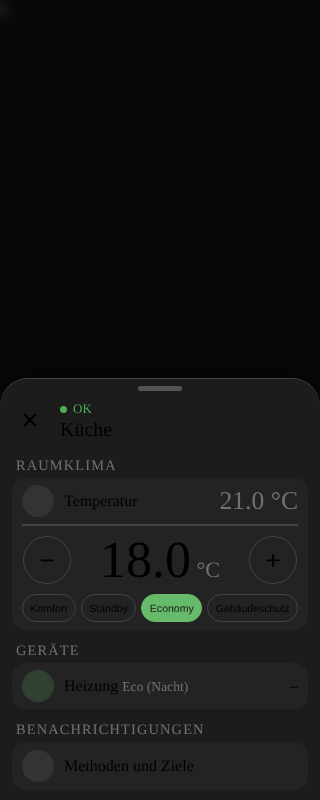
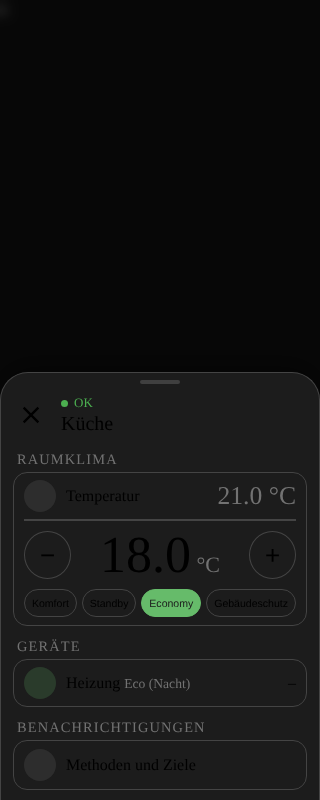
Heizplan mit echtem Tagesverlauf, Popup als Bottom-Sheet wie Home Assistant (1.32.0) (#253)
* Heizplan mit echtem Tagesverlauf, Popup als Bottom-Sheet wie Home Assistant (1.32.0)

Claude-Session: https://claude.ai/code/session_016N3izbgCGyVMuvVCQ46Wp9

* CLAUDE.md: Formulierung Lektion 176

Claude-Session: https://claude.ai/code/session_016N3izbgCGyVMuvVCQ46Wp9

---------

diff --git a/custom_components/ha_smart_ventilation/www/smart-climate-card.js b/custom_components/ha_smart_ventilation/www/smart-climate-card.js
@@ -181,35 +181,77 @@ const SC_PLAN_COLOR = {
   comfort: SC_HEATING_COLOR.comfort,
   standby: SC_HEATING_COLOR.standby,
   night: SC_HEATING_COLOR.night,
+  building_protection: SC_HEATING_COLOR.building_protection,
 };
-const PLAN_LABEL = { comfort: "Komfort", standby: "Standby", night: "Eco (Nacht)" };
+const PLAN_LABEL = {
+  comfort: "Komfort",
+  standby: "Standby",
+  night: "Eco (Nacht)",
+  building_protection: "Gebäudeschutz",
+};
 
-function planHtml(plan, now, compact) {
-  if (!Array.isArray(plan) || !plan.length) return "";
-  const segs = [];
-  for (const entry of plan) {
+// Liste [[Startminute, Modus], ...] bereinigen und sortieren.
+function planEntries(list) {
+  const out = [];
+  if (!Array.isArray(list)) return out;
+  for (const entry of list) {
     if (!Array.isArray(entry)) continue;
     const start = Number(entry[0]);
     if (!Number.isFinite(start) || start < 0 || start >= 1440) continue;
-    segs.push([start, typeof entry[1] === "string" ? entry[1] : ""]);
+    out.push([start, typeof entry[1] === "string" ? entry[1] : ""]);
   }
-  if (!segs.length) return "";
-  segs.sort((x, y) => x[0] - y[0]);
-  if (segs[0][0] > 0) segs.unshift([0, ""]);
+  out.sort((x, y) => x[0] - y[0]);
+  return out;
+}
+
+// Modus einer sortierten Liste zur Minute t ("" = noch kein Eintrag).
+function planModeAt(entries, t) {
+  let mode = "";
+  for (const [start, m] of entries) {
+    if (start <= t) mode = m;
+    else break;
+  }
+  return mode;
+}
+
+// history (Attribut heizung_tagesverlauf): was bis jetzt wirklich lief. Bis zur
+// Jetzt-Marke gilt der echte Verlauf (volle Farbe), danach der Plan (abgedunkelt);
+// wo kein Verlauf bekannt ist, bleibt der Plan stehen.
+function planHtml(plan, now, compact, history) {
+  const planE = planEntries(plan);
+  const histE = planEntries(history).filter((e) => e[1] !== "");
+  if (!planE.length && !histE.length) return "";
+  const d = now instanceof Date ? now : new Date();
+  const nowMin = d.getHours() * 60 + d.getMinutes();
+  const hasHist = histE.length > 0;
+  const cuts = new Set([0, ...planE.map((e) => e[0]), ...planEntries(history).map((e) => e[0])]);
+  if (hasHist && nowMin > 0 && nowMin < 1440) cuts.add(nowMin);
+  const points = [...cuts].sort((x, y) => x - y);
+  const segs = [];
+  points.forEach((start, i) => {
+    const end = i + 1 < points.length ? points[i + 1] : 1440;
+    const past = hasHist && start < nowMin;
+    let mode = past ? planModeAt(planEntries(history), start) : "";
+    if (!mode) mode = planModeAt(planE, start);
+    const fut = hasHist && !past;
+    const last = segs[segs.length - 1];
+    if (last && last.mode === mode && last.fut === fut) last.end = end;
+    else segs.push({ start, end, mode, fut });
+  });
   const hhmm = (m) => `${pad2(Math.floor(m / 60))}:${pad2(m % 60)}`;
   let bar = "";
   const times = [];
-  segs.forEach(([start, mode], i) => {
-    const end = i + 1 < segs.length ? segs[i + 1][0] : 1440;
-    const known = Object.prototype.hasOwnProperty.call(SC_PLAN_COLOR, mode);
-    const label = known ? PLAN_LABEL[mode] : "kein Plan";
-    bar += `<span class="plan-seg${known ? "" : " plan-none"}" style="flex:${end - start} 0 0;${known ? `background:${SC_PLAN_COLOR[mode]}` : ""}" title="${hhmm(start)}–${end >= 1440 ? "24:00" : hhmm(end)} ${esc(label)}"></span>`;
-    if (known) {
-      times.push(`<span class="plan-t"><span class="plan-dot" style="background:${SC_PLAN_COLOR[mode]}"></span>${hhmm(start)} ${esc(label)}</span>`);
+  let lastMode = null;
+  for (const s of segs) {
+    const known = Object.prototype.hasOwnProperty.call(SC_PLAN_COLOR, s.mode);
+    const label = known ? PLAN_LABEL[s.mode] : "kein Plan";
+    bar += `<span class="plan-seg${known ? "" : " plan-none"}${s.fut ? " plan-fut" : ""}" style="flex:${s.end - s.start} 0 0;${known ? `background:${SC_PLAN_COLOR[s.mode]}` : ""}" title="${hhmm(s.start)}–${s.end >= 1440 ? "24:00" : hhmm(s.end)} ${esc(label)}"></span>`;
+    if (known && s.mode !== lastMode) {
+      times.push(`<span class="plan-t"><span class="plan-dot" style="background:${SC_PLAN_COLOR[s.mode]}"></span>${hhmm(s.start)} ${esc(label)}</span>`);
     }
-  });
-  const d = now instanceof Date ? now : new Date();
-  const nowPct = ((d.getHours() * 60 + d.getMinutes()) / 1440) * 100;
+    lastMode = s.mode;
+  }
+  const nowPct = (nowMin / 1440) * 100;
   const tick = (h) =>
     `<span style="${h === 0 ? "left:0;transform:none" : h === 24 ? "right:0;transform:none" : `left:${(h / 24) * 100}%`}">${h}</span>`;
   return (
@@ -409,8 +451,8 @@ function crCompactRoom(c) {
       clampKey: `${a.raum}|heat`,
       right: runtime(a.heizung_an, a.heizung_seit, a.heizung_letzte_laufzeit),
     });
-    if (has(a, "heizung_tagesplan") && Array.isArray(a.heizung_tagesplan)) {
-      const planBlock = planHtml(a.heizung_tagesplan);
+    if ((has(a, "heizung_tagesplan") && Array.isArray(a.heizung_tagesplan)) || (has(a, "heizung_tagesverlauf") && Array.isArray(a.heizung_tagesverlauf))) {
+      const planBlock = planHtml(a.heizung_tagesplan, undefined, false, a.heizung_tagesverlauf);
       if (planBlock) {
         const planOpen = c.planOpen === true;
         dev += `<div class="cr-row cr-plan"><div class="cr-t"><div class="cr-planfold${planOpen ? " open" : ""}" data-plan-room="${esc(a.raum)}">` +
@@ -878,8 +920,8 @@ class SmartClimateCard extends HTMLElement {
           grund += ` <br>(Sollstellung: ${roundStr(a.heizung_zieltemperatur, 1)} °C)`;
         }
         deviceRows += `<tr><td class="nw">${name}</td><td class="center nw">${laufzeit}</td><td>${cellDiv(`${a.raum}|heat`, grund)}</td></tr>`;
-        if (has(a, "heizung_tagesplan") && Array.isArray(a.heizung_tagesplan)) {
-          const planBlock = planHtml(a.heizung_tagesplan);
+        if ((has(a, "heizung_tagesplan") && Array.isArray(a.heizung_tagesplan)) || (has(a, "heizung_tagesverlauf") && Array.isArray(a.heizung_tagesverlauf))) {
+          const planBlock = planHtml(a.heizung_tagesplan, undefined, false, a.heizung_tagesverlauf);
           if (planBlock) deviceRows += `<tr><td style="white-space:nowrap">Heizplan</td><td colspan="2">${planBlock}</td></tr>`;
         }
       }
@@ -1317,7 +1359,7 @@ class SmartClimateCard extends HTMLElement {
         text-transform: uppercase; color: var(--secondary-text-color, #727272);
       }
       ha-card.sc-compact .smart-climate-card-content > .cr-h:first-child { margin-top: 6px; }
-      .cr-sec { background: var(--secondary-background-color, rgba(127, 127, 127, 0.08)); border-radius: 14px; padding: 0 10px; }
+      .cr-sec { background: transparent; border: 1px solid var(--divider-color, rgba(127, 127, 127, 0.35)); border-radius: 14px; padding: 0 10px; }
       .cr-row { display: flex; align-items: center; gap: 10px; padding: 7px 0; border-bottom: 1px solid var(--divider-color, #e0e0e0); }
       .cr-row:last-child { border-bottom: 0; }
       .cr-row.cr-link { cursor: pointer; }
@@ -1352,6 +1394,7 @@ class SmartClimateCard extends HTMLElement {
       .plan-wrap { position: relative; }
       .plan-bar { display: flex; height: 14px; border-radius: 7px; overflow: hidden; background: var(--divider-color, #e0e0e0); }
       .plan-seg { height: 100%; min-width: 0; }
+      .plan-fut { opacity: 0.6; }
       .plan-none { background: repeating-linear-gradient(45deg, rgba(127, 127, 127, 0.35) 0 4px, transparent 4px 8px); }
       .plan-now { position: absolute; top: -3px; bottom: -3px; width: 2px; margin-left: -1px; border-radius: 1px; background: var(--primary-text-color, #000); }
       .plan-scale { position: relative; height: 1.2em; margin-top: 3px; font-size: 0.75em; color: var(--secondary-text-color, #727272); }
@@ -1613,7 +1656,7 @@ function scOverview(hass) {
     if (a.luftentfeuchter_an === true) dev.push(`<span class="ov-dev" style="color:${SC_COLOR.blue}" title="Luftentfeuchter läuft"><ha-icon icon="mdi:air-humidifier"></ha-icon></span>`);
     if (a.klimaanlage_an === true) dev.push(`<span class="ov-dev" style="color:${SC_COLOR.blue}" title="Klimaanlage läuft"><ha-icon icon="mdi:snowflake"></ha-icon></span>`);
     if (a.duschen_erkannt === true) dev.push(`<span class="ov-dev" style="color:${SC_COLOR.blue}" title="Dusche aktiv"><ha-icon icon="mdi:shower-head"></ha-icon></span>`);
-    const planRow = has(a, "heizung_tagesplan") ? planHtml(a.heizung_tagesplan, undefined, true) : "";
+    const planRow = has(a, "heizung_tagesplan") || has(a, "heizung_tagesverlauf") ? planHtml(a.heizung_tagesplan, undefined, true, a.heizung_tagesverlauf) : "";
     rooms.push({
       id,
       html:
@@ -1832,12 +1875,12 @@ function openRoomDialog(key) {
   overlay.setAttribute("aria-modal", "true");
   overlay.innerHTML =
     "<style>" +
-    ".sc-room-dialog{position:fixed;inset:0;z-index:2147483000;display:flex;align-items:flex-start;justify-content:center;padding:calc(env(safe-area-inset-top,0px) + 40px) 12px calc(env(safe-area-inset-bottom,0px) + 16px);background:rgba(0,0,0,.55);-webkit-backdrop-filter:blur(6px);backdrop-filter:blur(6px);box-sizing:border-box;overscroll-behavior:contain;touch-action:none;animation:sc-fade .2s ease-out}" +
-    ".sc-room-panel{position:relative;display:flex;flex-direction:column;width:100%;max-width:600px;max-height:100%;overflow:hidden;border-radius:28px;border:1px solid var(--divider-color,rgba(127,127,127,.45));box-shadow:0 8px 28px rgba(0,0,0,.45);background:var(--primary-background-color,var(--card-background-color,#fff));color:var(--primary-text-color,#000);box-sizing:border-box;animation:sc-down .22s ease-out}" +
-    "@keyframes sc-down{from{transform:translateY(-24px);opacity:0}to{transform:none;opacity:1}}" +
+    ".sc-room-dialog{position:fixed;inset:0;z-index:2147483000;display:flex;align-items:flex-end;justify-content:center;padding:0;background:rgba(0,0,0,.55);-webkit-backdrop-filter:blur(6px);backdrop-filter:blur(6px);box-sizing:border-box;overscroll-behavior:contain;touch-action:none;animation:sc-fade .2s ease-out}" +
+    ".sc-room-panel{position:relative;display:flex;flex-direction:column;width:100%;max-width:600px;max-height:calc(100% - max(env(safe-area-inset-top,0px),8px));overflow:hidden;border-radius:28px 28px 0 0;border:1px solid var(--divider-color,rgba(127,127,127,.45));border-bottom:0;box-shadow:0 -6px 28px rgba(0,0,0,.45);background:var(--primary-background-color,var(--card-background-color,#fff));color:var(--primary-text-color,#000);box-sizing:border-box;animation:sc-up .24s ease-out}" +
+    "@keyframes sc-up{from{transform:translateY(40px);opacity:0}to{transform:none;opacity:1}}" +
     "@keyframes sc-fade{from{opacity:0}to{opacity:1}}" +
-    ".sc-room-scroll{overflow:auto;min-height:0;overscroll-behavior:contain;touch-action:pan-y;-webkit-overflow-scrolling:touch}" +
-    ".sc-room-bar{flex:none;position:relative;z-index:2;display:flex;align-items:center;gap:2px;padding:8px 8px 2px}" +
+    ".sc-room-grip{position:absolute;top:7px;left:50%;width:40px;height:4px;margin-left:-20px;border-radius:2px;background:var(--divider-color,rgba(127,127,127,.6));opacity:.9;pointer-events:none;z-index:3}.sc-room-scroll{padding-bottom:env(safe-area-inset-bottom,0px);overflow:auto;min-height:0;overscroll-behavior:contain;touch-action:pan-y;-webkit-overflow-scrolling:touch}" +
+    ".sc-room-bar{flex:none;position:relative;z-index:2;display:flex;align-items:center;gap:2px;padding:18px 8px 2px}" +
     ".sc-room-close,.sc-room-std,.sc-room-list{width:44px;height:44px;border:0;border-radius:50%;background:transparent;color:var(--primary-text-color,#000);cursor:pointer;flex:none;padding:0;display:flex;align-items:center;justify-content:center;line-height:1;font-size:22px;--mdc-icon-size:24px}" +
     ".sc-room-title{flex:1;min-width:0;display:flex;flex-direction:column;justify-content:center;padding:0 6px;min-height:48px}" +
     ".sc-room-sub{display:flex;align-items:center;gap:6px;font-size:13px;line-height:1.25;color:var(--secondary-text-color,#727272);white-space:nowrap;overflow:hidden;text-overflow:ellipsis}" +
@@ -1861,15 +1904,15 @@ function openRoomDialog(key) {
     ".sc-room-missing{padding:8px 16px 24px}" +
     ".ov{padding:0 12px 16px}" +
     ".ov-counts{display:flex;gap:8px;margin:2px 0 4px}" +
-    ".ov-cnt{flex:1 1 0;min-width:0;display:flex;align-items:center;gap:6px;padding:10px 10px;border:1px solid var(--divider-color,rgba(127,127,127,.35));border-radius:14px;background:var(--ha-card-background,var(--card-background-color,rgba(127,127,127,.12)))}" +
+    ".ov-cnt{flex:1 1 0;min-width:0;display:flex;align-items:center;gap:6px;padding:10px 10px;border:1px solid var(--divider-color,rgba(127,127,127,.35));border-radius:14px;background:transparent}" +
     ".ov-cnt i{width:9px;height:9px;border-radius:50%;flex:none}.ov-cnt b{font-size:18px;font-weight:600}.ov-cnt span{font-size:12px;color:var(--secondary-text-color,#727272);overflow:hidden;text-overflow:ellipsis;white-space:nowrap;min-width:0}" +
     ".ov-sec{margin:14px 4px 6px;font-size:12px;font-weight:500;letter-spacing:.04em;text-transform:uppercase;color:var(--secondary-text-color,#727272)}" +
     ".ov-tiles{display:grid;grid-template-columns:repeat(2,minmax(0,1fr));gap:8px}" +
     "@media (min-width:520px){.ov-tiles{grid-template-columns:repeat(4,minmax(0,1fr))}}" +
-    ".ov-tile{padding:8px 12px;border:1px solid var(--divider-color,rgba(127,127,127,.35));border-radius:14px;background:var(--ha-card-background,var(--card-background-color,rgba(127,127,127,.12)));display:flex;flex-direction:column;gap:2px;min-width:0}" +
+    ".ov-tile{padding:8px 12px;border:1px solid var(--divider-color,rgba(127,127,127,.35));border-radius:14px;background:transparent;display:flex;flex-direction:column;gap:2px;min-width:0}" +
     ".ov-tile span{font-size:12px;color:var(--secondary-text-color,#727272);overflow:hidden;text-overflow:ellipsis;white-space:nowrap}.ov-tile b{font-size:16px;font-weight:600}" +
-    ".ov-list{border:1px solid var(--divider-color,rgba(127,127,127,.35));border-radius:16px;background:var(--ha-card-background,var(--card-background-color,rgba(127,127,127,.12)));overflow:hidden}" +
-    ".ov-row{display:flex;flex-wrap:wrap;align-items:center;gap:10px;padding:10px 12px;cursor:pointer;min-height:44px}.ov-plan{flex:0 0 100%;min-width:0;margin-top:-2px}.ov-plan .plan-wrap{position:relative}.ov-plan .plan-bar{display:flex;height:10px;border-radius:5px;overflow:hidden;background:var(--divider-color,#e0e0e0)}.ov-plan .plan-seg{height:100%;min-width:0}.ov-plan .plan-none{background:repeating-linear-gradient(45deg,rgba(127,127,127,.35) 0 4px,transparent 4px 8px)}.ov-plan .plan-now{position:absolute;top:-3px;bottom:-3px;width:2px;margin-left:-1px;border-radius:1px;background:var(--primary-text-color,#000)}.ov-plan .plan-scale{position:relative;height:1.1em;margin-top:2px;font-size:11px;color:var(--secondary-text-color,#727272)}.ov-plan .plan-scale span{position:absolute;transform:translateX(-50%)}.ov-room+.ov-room{border-top:1px solid var(--divider-color,rgba(127,127,127,.25))}" +
+    ".ov-list{border:1px solid var(--divider-color,rgba(127,127,127,.35));border-radius:16px;background:transparent;overflow:hidden}" +
+    ".ov-row{display:flex;flex-wrap:wrap;align-items:center;gap:10px;padding:10px 12px;cursor:pointer;min-height:44px}.ov-plan{flex:0 0 100%;min-width:0;margin-top:-2px}.ov-plan .plan-wrap{position:relative}.ov-plan .plan-bar{display:flex;height:10px;border-radius:5px;overflow:hidden;background:var(--divider-color,#e0e0e0)}.ov-plan .plan-seg{height:100%;min-width:0}.ov-plan .plan-fut{opacity:.6}.ov-plan .plan-none{background:repeating-linear-gradient(45deg,rgba(127,127,127,.35) 0 4px,transparent 4px 8px)}.ov-plan .plan-now{position:absolute;top:-3px;bottom:-3px;width:2px;margin-left:-1px;border-radius:1px;background:var(--primary-text-color,#000)}.ov-plan .plan-scale{position:relative;height:1.1em;margin-top:2px;font-size:11px;color:var(--secondary-text-color,#727272)}.ov-plan .plan-scale span{position:absolute;transform:translateX(-50%)}.ov-room+.ov-room{border-top:1px solid var(--divider-color,rgba(127,127,127,.25))}" +
     ".ov-chev{flex:none;color:var(--secondary-text-color,#727272);transition:transform .15s ease;--mdc-icon-size:22px}.ov-room.open .ov-chev{transform:rotate(90deg)}" +
     ".ov-body{display:none;padding:0 4px 8px}.ov-room.open .ov-body{display:block}" +
     ".ov-ico{width:36px;height:36px;border-radius:50%;flex:none;display:flex;align-items:center;justify-content:center;background:rgba(127,127,127,.18);color:var(--c);--mdc-icon-size:20px}" +
@@ -1884,7 +1927,7 @@ function openRoomDialog(key) {
   close.className = "sc-room-close";
   close.type = "button";
   close.setAttribute("aria-label", "Schließen");
-  close.textContent = "✕";
+  close.innerHTML = '<svg viewBox="0 0 24 24" width="28" height="28" aria-hidden="true"><path fill="currentColor" d="M19,6.41L17.59,5L12,10.59L6.41,5L5,6.41L10.59,12L5,17.59L6.41,19L12,13.41L17.59,19L19,17.59L13.41,12L19,6.41Z"/></svg>';
   const bar = document.createElement("div");
   bar.className = "sc-room-bar";
   const std = document.createElement("button");
@@ -1914,6 +1957,9 @@ function openRoomDialog(key) {
     if (shutterId) bar.appendChild(std);
     bar.appendChild(listBtn);
   }
+  const grip = document.createElement("div");
+  grip.className = "sc-room-grip";
+  panel.appendChild(grip);
   panel.appendChild(bar);
   const scroll = document.createElement("div");
   scroll.className = "sc-room-scroll";
@@ -2093,6 +2139,43 @@ function openRoomDialog(key) {
   overlay.addEventListener("click", (ev) => {
     if (ev.target === overlay) scCloseRoomDialog();
   });
+  // Wegwischen nach unten wie bei den Home-Assistant-Fenstern: am Kopfbereich
+  // immer, im Inhalt nur, wenn er ganz oben steht. Über 110 px oder schnell
+  // schließt es, sonst federt es zurück.
+  let sw = null;
+  panel.addEventListener("touchstart", (ev) => {
+    if (ev.touches.length !== 1) { sw = null; return; }
+    const inBar = ev.composedPath().includes(bar) || ev.composedPath().includes(grip);
+    sw = { y: ev.touches[0].clientY, t: Date.now(), ok: inBar || scroll.scrollTop <= 0, drag: false, dy: 0 };
+  }, { passive: true });
+  panel.addEventListener("touchmove", (ev) => {
+    if (!sw || !sw.ok || !ev.touches.length) return;
+    const dy = ev.touches[0].clientY - sw.y;
+    if (!sw.drag && dy > 8) {
+      sw.drag = true;
+      panel.style.animation = "none";
+      panel.style.transition = "none";
+    }
+    if (!sw.drag) return;
+    sw.dy = Math.max(0, dy);
+    panel.style.transform = `translateY(${sw.dy}px)`;
+  }, { passive: true });
+  const swipeEnd = () => {
+    if (!sw || !sw.drag) { sw = null; return; }
+    const dt = Math.max(1, Date.now() - sw.t);
+    const fast = sw.dy > 40 && sw.dy / dt > 0.5;
+    const go = sw.dy > 110 || fast;
+    sw = null;
+    panel.style.transition = "transform .2s ease-out";
+    if (go) {
+      panel.style.transform = "translateY(100%)";
+      setTimeout(scCloseRoomDialog, 190);
+    } else {
+      panel.style.transform = "";
+    }
+  };
+  panel.addEventListener("touchend", swipeEnd, { passive: true });
+  panel.addEventListener("touchcancel", swipeEnd, { passive: true });
   // Bei offenem Dialog neue Zustände übernehmen (die Karte selbst bekommt
   // hass sonst nur vom Dashboard).
   const timer = setInterval(() => {

diff --git a/custom_components/ha_smart_ventilation/binary_sensor.py b/custom_components/ha_smart_ventilation/binary_sensor.py
@@ -487,6 +487,11 @@ class SmartVentilationBinarySensor(BinarySensorEntity, RestoreEntity):
         self._heating_mode_wanted: str | None = None
         self._heating_mode_since = None
         self._heating_prevented: str | None = None
+        # Tatsächlich gemeldeter Heizmodus des heutigen Tages als Liste
+        # [Startminute, Modus] (Modus "" = unbekannt), nur zur Anzeige im
+        # Heizplan (Lektion 176); wird um Mitternacht zurückgesetzt.
+        self._heating_log: list = []
+        self._heating_log_day = None
         # Nutzungserkennung (learning.py): gelernte Nutzung je Tagestyp und
         # Stunde, lokal im Store dieses Eintrags gespeichert.
         self._usage = UsageProfile()
@@ -1173,6 +1178,10 @@ class SmartVentilationBinarySensor(BinarySensorEntity, RestoreEntity):
             if self._heating_last_runtime_minutes is not None:
                 attrs["heizung_letzte_laufzeit"] = self._heating_last_runtime_minutes
             attrs["heizung_modus"] = heating_mode_active
+            self._log_heating_actual(heating_mode_active)
+            if self._heating_log:
+                attrs["heizung_tagesverlauf"] = [list(e) for e in self._heating_log]
+                attrs["heizung_tagesverlauf_tag"] = self._heating_log_day.isoformat()
             attrs["heizung_zieltemperatur"] = current_target
             attrs["heizung_grund"] = self._heating_reason
             attrs.update(self._usage_attributes())
@@ -1276,6 +1285,17 @@ class SmartVentilationBinarySensor(BinarySensorEntity, RestoreEntity):
                 "building_protection",
             ):
                 self._heating_state = attrs["heizung_modus"]
+            log = attrs.get("heizung_tagesverlauf")
+            if (
+                isinstance(log, list)
+                and attrs.get("heizung_tagesverlauf_tag") == dt_util.now().date().isoformat()
+            ):
+                self._heating_log = [
+                    [int(e[0]), str(e[1])]
+                    for e in log
+                    if isinstance(e, (list, tuple)) and len(e) == 2
+                ]
+                self._heating_log_day = dt_util.now().date()
             if attrs.get("heizung_soll_modus") in (
                 "comfort",
                 "standby",
@@ -2159,6 +2179,28 @@ class SmartVentilationBinarySensor(BinarySensorEntity, RestoreEntity):
             self._preheating = True
             return "comfort"
         return mode
+
+    def _log_heating_actual(self, mode: str | None) -> None:
+        """Hält den live gemeldeten Heizmodus für den Heizplan-Balken fest
+        (nur bei Änderung, je Tag; "" = unbekannt). Idempotent, deshalb ohne
+        Problem direkt beim Lesen der Attribute aufrufbar (Lektion 31)."""
+        now = dt_util.now()
+        today = now.date()
+        mode_str = mode or ""
+        if self._heating_log_day != today:
+            carry = self._heating_log[-1][1] if self._heating_log else ""
+            self._heating_log_day = today
+            self._heating_log = [[0, carry]] if carry else []
+        minute = now.hour * 60 + now.minute
+        last = self._heating_log[-1] if self._heating_log else None
+        if last is not None and last[1] == mode_str:
+            return
+        if last is None and not mode_str:
+            return
+        if last is not None and last[0] == minute:
+            last[1] = mode_str
+            return
+        self._heating_log.append([minute, mode_str])
 
     def _heating_day_plan(self) -> list | None:
         """Plan der Heizungs-Modi für den ganzen heutigen Tag als Liste von

diff --git a/CLAUDE.md b/CLAUDE.md
@@ -3774,6 +3774,8 @@ Nutzer (Screenshot): Bei jedem HA-Neustart kommt beim Runterfahren eine Push (Wo
 
 **175. Raum-Formular blendet selten genutzte Heizungsfelder aus (1.31.2).** Nutzerfrage nach Vereinfachungen der Config-Flow-Seiten, umgesetzt wurden Punkt 2 und 3 der Vorschlagsliste: Die sechs Zeitplan-Startzeiten pro Raum (seit den Raumtypen, Lektion 168, fast überflüssig) und die feste Vorheizzeit erscheinen nur noch, wenn im Raum ein Wert gespeichert ist; die eigene Heizungs-Entität entfällt, solange "Temperaturquelle auch als Heizung" aktiv ist (Lektion 41: wird dort ignoriert). `_room_hidden_keys(defaults)` bestimmt das beim Bauen des Formulars. Stolperstein: Der Lösch-Mechanismus für geleerte Felder (`ROOM_OPTIONAL_ENTITY_KEYS` und Startzeiten, Lektion 27/170) entfernt jedes Feld, das in `defaults` fehlt - ein ausgeblendetes Feld würde dadurch beim nächsten Speichern gelöscht. Deshalb merkt sich der Options-Flow beim Anzeigen (`_room_hidden_shown`), welche Felder ausgeblendet waren, und löscht nur angezeigte. Folge: Eine neue individuelle Startzeit/Vorheizzeit lässt sich über die Oberfläche nicht mehr anlegen (bewusst, Raumtypen decken den Bedarf; Nutzer entschied sich gegen einen Schalter). Test `test_hidden.py` (ast: Sichtbarkeit, Löschen nur angezeigter Felder); Formular nicht an der echten Instanz geprüft. Lektion: Wer Felder abhängig vom gespeicherten Zustand ausblendet, muss jede Stelle prüfen, die "fehlt im Absenden" als "wurde geleert" liest.
 
+**176. Heizplan zeigt den echten Verlauf, Popup als Bottom-Sheet nach Home-Assistant-Vorbild (1.32.0).** Nutzer (Screenshots, Büro im Homeoffice): Der Plan zeigte für Vergangenes nur Standby/Eco, obwohl real meist Comfort lief; zusätzlich passte das Popup nicht zu den Home-Assistant-Fenstern (dort volle Breite, unten bündig). Backend: `_log_heating_actual()` protokolliert den live vom Gerät gemeldeten Modus (`heizung_modus`, also inklusive Handeingriff/Auslöser/Fensterpause) als `[Startminute, Modus]` für den heutigen Tag (Attribut `heizung_tagesverlauf` + `_tag` für die Wiederherstellung per RestoreEntity, Reset um Mitternacht mit Übernahme des letzten Modus); aufgerufen im selben Live-Read wie das Anzeige-Attribut (Lektion 31/96), idempotent, "" = unbekannt (wird nicht als Start geloggt). Karte: `planHtml(plan, now, compact, history)` bildet aus Plan- und Verlauf-Einschnitten Abschnitte; bis zur Jetzt-Marke gilt der Verlauf (volle Farbe), wo keiner bekannt ist der Plan, ab jetzt der Plan mit `.plan-fut` (60 % Deckkraft); ohne Verlauf unverändert. Auch Gebäudeschutz hat jetzt Farbe/Label. Nur der live gemeldete Modus, keine Rückrechnung aus dem Recorder (nur ab dem ersten Start nach dem Update). Popup: Overlay `align-items:flex-end`, Panel volle Breite (max. 600 px), unten bündig, nur oben rund, Abstand oben `max(safe-area, 8 px)`, Griff, X als SVG (28 px), Wegwischen nach unten wieder da (am Kopf immer, im Inhalt nur bei `scrollTop <= 0`; > 110 px oder schnell schließt, sonst Rückfederung); Bereiche (`.cr-sec`, Übersichts-Kacheln) mit transparentem Hintergrund und Rahmen statt grauer Fläche. Meine Lektion-173-Annahme (oben angeheftet, Luft ringsum) war damit falsch gelesen - der Nutzer meinte die Höhe oben, nicht den Rand unten/seitlich. Tests (Scratchpad): `test-sheet.js` (Chromium 280-900 px: bündig, Ecken, Griff, X, Überlauf), `test-swipe2.js` (CDP-Touch: weit/kurz/gescrollt), `test-history.js`, `test_hlog.py` (ast-Harness des Protokolls); `test-plan.js` hat einen veralteten Titelcheck ("Heizplan heute", seit 1.23.3 "Heizplan"). Nicht in der iOS-App geprüft. Lektion: Ein "wie bei Home Assistant" muss gegen das Original an allen Rändern verglichen werden (oben, seitlich, unten, Ecken), nicht nur an dem Rand, über den gerade gesprochen wurde; und eine Anzeige "Plan vs. Ist" braucht beides getrennt gespeichert, sonst überschreibt die Gegenwart die Erinnerung.
+
 ## Versionierung & Release
 
 - Semantic Versioning in `manifest.json` (`version`): Patch für

diff --git a/docs/dashboard.md b/docs/dashboard.md
@@ -640,3 +640,16 @@ visibility:
 als `cover.<raum>_rollladen` abgeleitet (Ausnahme im Modul: `climate.buro` →
 `cover.rollo_buro`) oder über `climate_status: { cover_entity: ... }` an der
 Karte gesetzt.
+
+**Heizplan mit echtem Verlauf (ab 1.32.0):** Der Heizplan-Balken zeigt für die
+Zeit bis zur "jetzt"-Marke, was wirklich lief (live vom Gerät gemeldeter
+Modus, also inklusive Handeingriff, Auslöser und Fensterpause); ab jetzt
+zeigt er den Plan, leicht abgedunkelt. Wo kein Verlauf bekannt ist (z. B. vor
+dem ersten Start nach dem Update, Gerät nicht verfügbar), bleibt der Plan
+stehen. Der Verlauf gilt nur für den heutigen Tag (Attribut
+`heizung_tagesverlauf`, wird um Mitternacht zurückgesetzt).
+
+**Popup wie bei Home Assistant (ab 1.32.0):** Das Raum-Popup liegt in voller
+Breite bündig am unteren Rand, oben abgerundet, mit Griff und großem
+Schließen-Kreuz; Wegwischen nach unten (am Kopf oder im ganz oben stehenden
+Inhalt) schließt es. Die Bereiche sind nur noch mit Konturen umrandet.
